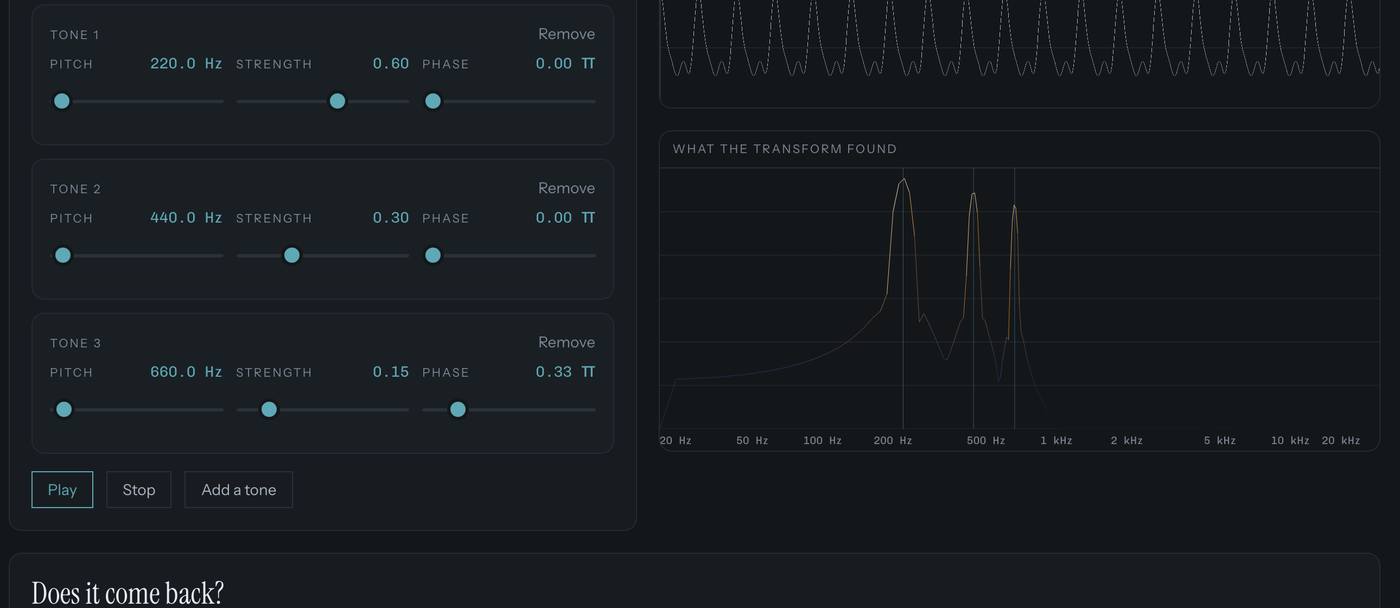
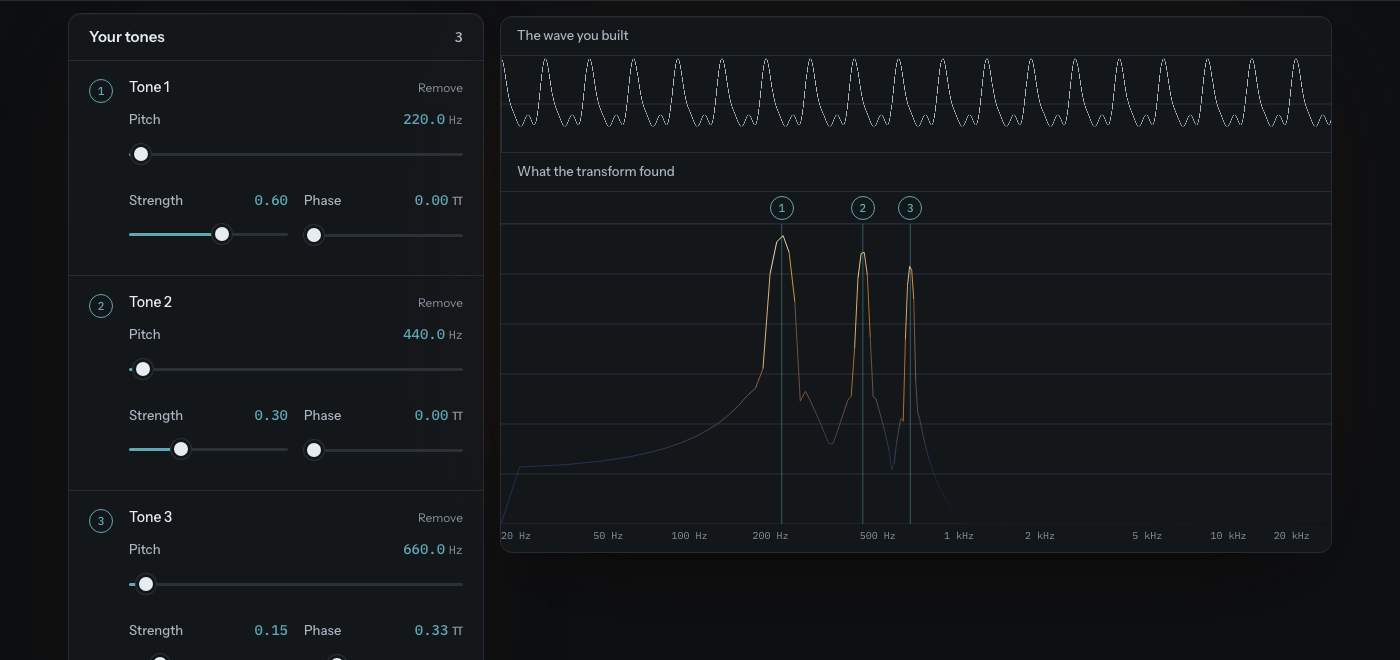
docs: the redesign in CLAUDE.md, the PRD and the README
CLAUDE.md names the new chrome token (void), the glass and action rules,
sentence-case labels, the one-italic-word headline convention, Quantity
for readouts, and the committed sample thumbnails with 'pnpm thumbs' to
regenerate them. The PRD's type line moves from Chivo Mono to IBM Plex
Mono and records the darker ground. The README's screenshots are
retaken from the production export, and its route table and test badge
are brought up to date.

diff --git a/CLAUDE.md b/CLAUDE.md
@@ -32,6 +32,7 @@ pnpm test                   # vitest watch
 pnpm test:run               # vitest once — before every commit
 pnpm test:dsp               # DFT oracle, Parseval, round-trip, analytic fixtures
 pnpm bench:fft              # throughput + heap-growth benchmark
+pnpm thumbs                 # regenerate public/thumbs/ from lib/dsp after a sample, ramp or scale change
 pnpm typecheck
 pnpm lint
 ```
@@ -135,8 +136,8 @@ tests/
 - Signal-processing terms stay in English in code and UI; interface copy is Indonesian.
 - Sample audio carries a recorded licence in `data/samples/LICENSES.md`. Never bundle audio without one.
 - The brand kit lives in `exports/` and is **not committed**. Copy the sizes the app serves into `public/`, and anything the README shows into `docs/`. The mark's own colours are the app palette renamed — draw it in tokens, never in the kit's hex.
-- Tailwind utilities inline; semantic tokens in `tailwind.config.ts`. The instrument — `plate`, `emulsion`, `energyLow`, `energyMid`, `energyHigh`, `instrument`, `clip` — is normative and closed; the chrome around it is `surface`, `raised`, `hairline`, `ink`, `inkMuted`, `inkFaint`. Never raw hex in components. Canvas code cannot read a class, so it takes the same values from `lib/ui/colors`, and `tests/ui/tokens.test.ts` fails if the two drift.
-- Type is a scale, not a size per call site: `display-xl`, `display-lg`, `display-md`, `lede`, `body`, `caption`, `control-label`, `eyebrow`. Page width is the `shell` class; prose is capped at `max-w-readable`.
+- Tailwind utilities inline; semantic tokens in `tailwind.config.ts`. The instrument — `plate`, `emulsion`, `energyLow`, `energyMid`, `energyHigh`, `instrument`, `clip` — is normative and closed; the chrome around it is `void` (the page ground, darker than `plate`), `raised`, `hairline`, `ink`, `inkMuted`, `inkFaint`. Instruments are glass (`.card`: `plate` on `void`, `shadow-glass`); prose sits on the ground. Primary actions are `energyHigh` with `plate` text — cyan never marks something to press. Never raw hex in components. Canvas code cannot read a class, so it takes the same values from `lib/ui/colors`, and `tests/ui/tokens.test.ts` fails if the two drift.
+- Type is a scale, not a size per call site: `display-xl`, `display-lg`, `display-md`, `lede`, `body`, `caption`, `control-label`, `eyebrow`. Labels are sentence case. A headline may carry one italic word, marked `*like this*` in the dictionary and rendered by `components/ui/Emphasis`. Readouts go through `components/ui/Quantity`, which sets the number in IBM Plex Mono medium and the unit after it, quieter. Page width is the `shell` class; prose is capped at `max-w-readable`.
 - **No copy outside `lib/i18n`.** Not in `lib/dsp`, not in `data/`, not hard-coded in a component. Both dictionaries stay complete — `tests/ui/copy.test.ts` fails otherwise.
 - **Plain word first, technical term behind it.** The interface says "Detail"; "window size" waits in the advanced disclosure. Anything a first-time visitor does not need to read the picture goes inside a `<details>`, never removed.
 
@@ -162,7 +163,7 @@ The site states plainly that microphone audio never leaves the device, that ther
 
 ## Current state
 
-M0–M5 built, plus a full interface pass for a first-time visitor. 251 tests green; `pnpm test:dsp`, `pnpm bench:fft`, `pnpm typecheck`, `pnpm lint` and `pnpm build` all pass.
+M0–M5 built, plus two interface passes: one for a first-time visitor, and a visual redesign (glass instruments on a darker ground, the tradeoff as three plates on the home page, a controls rail on Listen, a bottom tab bar on phones). 358 tests green; `pnpm test:dsp`, `pnpm bench:fft`, `pnpm typecheck`, `pnpm lint` and `pnpm build` all pass.
 
 The product is named Spectrogram; English is the default locale and Bahasa Indonesia is complete beside it. Route slugs are English and locale-independent (`listen`, `build`, `proof`).
 
@@ -171,7 +172,8 @@ Benchmark at the reference load (2048 points, 75% overlap, 48 kHz), on desktop: 
 **Two deviations from the layout above, both deliberate:**
 
 - Analysis runs in `workers/analyser.worker.ts`, not in an AudioWorklet. An AudioWorklet module cannot reliably use ES imports, so the FFT there would have to be a second, inlined copy of `lib/dsp` — untested by the correctness suites, and precisely the failure mode this project exists to rule out. `public/worklets/tap.worklet.js` is a pure capture tap that computes nothing, with a ScriptProcessor fallback. Invariant 7 holds on both paths.
-- `lib/hooks/` and `lib/ui/` exist alongside the directories listed above, holding the plate's orchestration hook and readout formatting. Nothing is computed in a component (invariant 15).
+- `lib/hooks/` and `lib/ui/` exist alongside the directories listed above, holding the plate's orchestration hook, readout formatting, and annotation geometry (marker positions, the window's drawn width, the Detail blur bars). Nothing is computed in a component (invariant 15).
+- Sample thumbnails in `public/thumbs/` are PNGs committed to the repo, produced by `lib/render/thumbnail` (the worker's pipeline, run synchronously). `tests/render/thumbnails.test.ts` fails when they no longer match what the transform draws; `pnpm thumbs` regenerates them.
 
 **Outstanding:**
 

diff --git a/PRD.md b/PRD.md
@@ -136,9 +136,9 @@ This is not a formality. A site that asks for microphone access owes the user an
 
 The material world is the **astronomical spectrogram plate** — the glass photographic plates on which spectra were recorded, dark emulsion with bright emission lines burned across it. The borrowing is literal: audio spectrograms took their name from spectroscopy, and the visual language of bright lines on a dark field is where the concept comes from.
 
-**Palette.** Plate `#14171A`, near-black with a cool cast, as ground — the one dark-first design in this set, and appropriate, because a spectrogram is light on dark and always has been. Emulsion `#2A3138` for grid and rules. The energy ramp runs deep indigo `#24345C` → amber `#C97B24` → near-white `#F5E9D0`, a blackbody-like progression that reads as intensity without inventing a false rainbow. Instrument cyan `#5FA8B5` for the analysis window bracket, cursors, and readouts — the annotation layer, always distinct from the data. Clip red `#C4453A` reserved for input clipping and nothing else.
+**Palette.** Plate `#14171A`, near-black with a cool cast, as ground — the one dark-first design in this set, and appropriate, because a spectrogram is light on dark and always has been. Emulsion `#2A3138` for grid and rules. The energy ramp runs deep indigo `#24345C` → amber `#C97B24` → near-white `#F5E9D0`, a blackbody-like progression that reads as intensity without inventing a false rainbow. Instrument cyan `#5FA8B5` for the analysis window bracket, cursors, and readouts — the annotation layer, always distinct from the data. Clip red `#C4453A` reserved for input clipping and nothing else. The page around the instruments sits one step darker than the plate (`void` `#0D0F12`), so each instrument reads as a lit glass plate on a dark ground; primary actions are near-white `energyHigh`, so cyan keeps its one meaning.
 
-**Type.** **Instrument Serif** for display and headings, which carries the register of a scientific plate. **Instrument Sans** for controls and prose. **Chivo Mono** with tabular figures for every readout — Hz, dB, ms, bin index — because an instrument's numbers must align and must never reflow as they change.
+**Type.** **Instrument Serif** for display and headings, which carries the register of a scientific plate. **Instrument Sans** for controls and prose. **IBM Plex Mono** with tabular figures for every readout — Hz, dB, ms, bin index — because an instrument's numbers must align and must never reflow as they change. The number is set in medium and its unit after it, quieter: always present, never competing. (Chivo Mono until the redesign; Plex brings the second weight.)
 
 **Structure.** The plate occupies the full width, with the waveform above it at a quarter height and the controls below. Frequency axis on the left, always labelled with real units. The analysis window bracket on the waveform is drawn in cyan and moves with the scan, so the two views stay tied together.
 

diff --git a/README.md b/README.md
@@ -7,13 +7,13 @@
 [**Open the live site →**](https://andifathulms.github.io/spectrogram/)
 
 [![Build and deploy](https://github.com/andifathulms/spectrogram/actions/workflows/deploy.yml/badge.svg)](https://github.com/andifathulms/spectrogram/actions/workflows/deploy.yml)
-![256 tests](https://img.shields.io/badge/tests-256%20passing-6FB9B4)
+![358 tests](https://img.shields.io/badge/tests-358%20passing-6FB9B4)
 ![No DSP dependency](https://img.shields.io/badge/DSP%20dependencies-none-D9954B)
 ![No network at runtime](https://img.shields.io/badge/network%20requests%20at%20runtime-zero-3A5A86)
 
 </div>
 
-<img src="docs/screens/plate.png" alt="The plate: a plucked guitar string as a waveform above, and as a spectrogram below, with its harmonic stack visible" width="100%">
+<img src="docs/screens/plate.png" alt="The plate: a plucked guitar string as a waveform above and a spectrogram below, with the sound picker and the Detail control in a rail beside it" width="100%">
 
 A static site. No backend, no accounts, and no network requests at runtime.
 
@@ -46,12 +46,12 @@ This is the same mathematics as the Heisenberg uncertainty principle, not an eng
 
 | Path | |
 |---|---|
-| `/[locale]/` | The explanation. A live spectrogram of a bundled sample, then how to read its three axes. |
-| `/[locale]/listen` | The plate. Spectrogram, waveform with the analysis-window bracket, hover readout, and the tradeoff as three named positions over the window-size slider. |
+| `/[locale]/` | The explanation. A full-width live spectrogram that teaches itself with numbered markers, then the tradeoff as one sound at three window sizes, side by side. |
+| `/[locale]/listen` | The plate. Waveform and spectrogram as one instrument, with the analysis-window bracket and a hover readout on it; the source and the Detail control in a rail beside it. |
 | `/[locale]/build` | Stack pure tones and watch the spectrum recover exactly what you put in, with the round-trip residual on screen. |
 | `/[locale]/proof` | Our FFT against `AnalyserNode`, same input, per-bin difference and timings for both. |
 
-<img src="docs/screens/home.png" alt="The landing page: a live spectrogram of a guitar sample beside the heading “See what sound looks like”" width="100%">
+<img src="docs/screens/home.png" alt="The landing page: the heading “See what sound looks like” above a full-width live spectrogram of a guitar string, with three numbered markers and their legend" width="100%">
 
 <img src="docs/screens/build.png" alt="Build a sound: three tones stacked with sliders, the wave they make, and the spectrum the transform recovers from it" width="100%">
 
